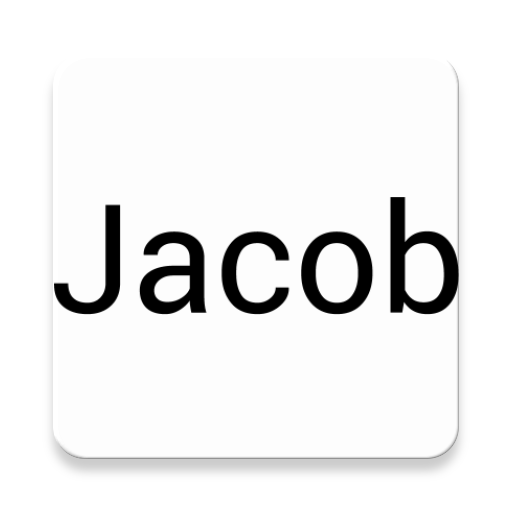
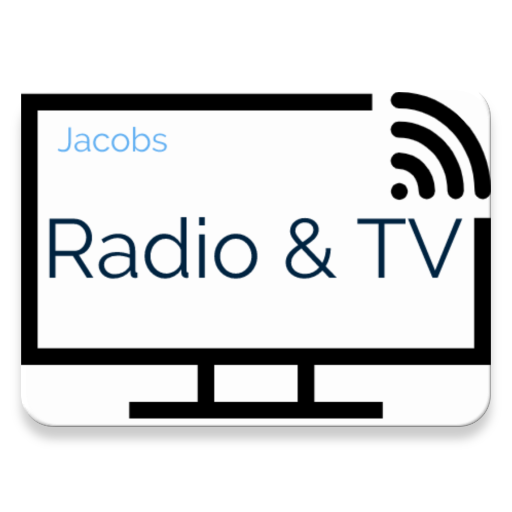
version '0.1.8 Marktest' Nyt app-ikon for variant 'Jacob' targetSdkVersion 21 -> 23 (bed om tilladelser - ikke reversibelt) hentAlleProgramserierAtilÅ virker for TV

Changed region(s): [[0.0312, 0.1562, 0.9688, 0.9375], [0.125, 0.25, 0.3438, 0.3125]]

diff --git a/app/src/main/java/dk/radiotv/backend/MuOnlineTVBackend.java b/app/src/main/java/dk/radiotv/backend/MuOnlineTVBackend.java
@@ -252,40 +252,52 @@ public class MuOnlineTVBackend extends MuOnlineBackend {
     return programserie;
   }
 
-/** Alle programserier - kun TV
- */
-@Override
-public void hentAlleProgramserierAtilÅ(final NetsvarBehander netsvarBehander) {
-  String url = "https://www.dr.dk/mu-online/api/1.4/search/tv/programcards-latest-episode-with-asset/series-title-starts-with/?offset=0&limit=75";
-  App.netkald.kald(null, url, new NetsvarBehander() {
-    @Override
-    public void fikSvar(Netsvar s) throws Exception {
-      Log.d(this + " hentAlleProgramserierAtilÅ "+s.url+ "  fikSvar " + s.toString());
-      if (!s.uændret && s.json != null) {
-        JSONObject jsonObject = new JSONObject(s.json);
-        JSONArray arr = jsonObject.getJSONArray("Items");
+  /** Alle programserier - kun TV
+   */
+  @Override
+  public void hentAlleProgramserierAtilÅ(final NetsvarBehander netsvarBehander) {
+    String url = "https://www.dr.dk/mu-online/api/1.4/search/tv/programcards-latest-episode-with-asset/series-title-starts-with/?offset=0&limit=75";
+    hentAlleProgramserierAtilÅRekursion(url, netsvarBehander);
+  }
 
-        JSONObject problemObj = null;
-        for (JSONObject o : new JSONArrayIterator(arr)) try {
-          problemObj = o;
-          String programserieUrn = o.getString("SeriesUrn");
-          String programserieSlug = o.getString("SeriesSlug");
-          Programserie ps = App.data.programserieFraSlug.get(programserieSlug);
-          if (ps == null) ps = App.data.programserieFraSlug.get(programserieUrn);
-          if (ps == null) {
-            ps = new Programserie(MuOnlineTVBackend.this);
-            ps.urn = programserieUrn;
-            ps.slug = programserieSlug;
-            App.data.programserieFraSlug.put(programserieUrn, ps);
-            App.data.programserieFraSlug.put(programserieSlug, ps);
-            ps.titel = o.getString("SeriesTitle");
+  private void hentAlleProgramserierAtilÅRekursion(String url, final NetsvarBehander netsvarBehander) {
+    final NetsvarBehander netsvarBehanderRekursiv = new NetsvarBehander() {
+      @Override
+      public void fikSvar(Netsvar s) throws Exception {
+        Log.d(this + " hentAlleProgramserierAtilÅ " + s.url + "  fikSvar " + s.toString());
+        if (!s.uændret && s.json != null) {
+          JSONObject jsonObject = new JSONObject(s.json);
+          JSONArray arr = jsonObject.getJSONArray("Items");
+
+          for (JSONObject o : new JSONArrayIterator(arr)) {
+            try {
+              String programserieUrn = o.getString("SeriesUrn");
+              String programserieSlug = o.getString("SeriesSlug");
+              Programserie ps = App.data.programserieFraSlug.get(programserieSlug);
+              //if (ps == null) ps = App.data.programserieFraSlug.get(programserieUrn);
+              if (ps == null) {
+                ps = new Programserie(MuOnlineTVBackend.this);
+                ps.urn = programserieUrn;
+                ps.slug = programserieSlug;
+                //App.data.programserieFraSlug.put(programserieUrn, ps);
+                App.data.programserieFraSlug.put(programserieSlug, ps);
+                ps.titel = o.getString("SeriesTitle");
+//                Log.d(this + " tilføjer serie " + ps.slug + " " + ps.titel);
+              }
+              ps.billedeUrl = o.getString("PrimaryImageUri");
+            } catch (Exception e) {
+              Log.e(o.toString(), e);
+            }
           }
-          ps.billedeUrl = o.getString("PrimaryImageUri");
-        } catch (Exception e) { Log.e(o.toString(), e); }
+          String næsteUrl = jsonObject.getJSONObject("Paging").optString("Next", null);
+          if (næsteUrl!=null) {
+            hentAlleProgramserierAtilÅRekursion(næsteUrl, netsvarBehander);
+          }
+        }
+        netsvarBehander.fikSvar(s);
       }
-      netsvarBehander.fikSvar(s);
-    }
-  });
-}
+    };
+    App.netkald.kald(null, url, netsvarBehanderRekursiv);
 
+  }
 }

diff --git a/app/src/main/java/dk/dr/radio/akt/Soeg_efter_program_frag.java b/app/src/main/java/dk/dr/radio/akt/Soeg_efter_program_frag.java
@@ -41,7 +41,7 @@ import dk.dr.radio.v3.R;
 
 
 public class Soeg_efter_program_frag extends Basisfragment implements
-    OnClickListener, AdapterView.OnItemClickListener {
+    OnClickListener, AdapterView.OnItemClickListener, Runnable {
 
   private static final boolean SØG_OGSÅ_EFTER_UDSENDELSER = false;
   private ListView listView;
@@ -86,13 +86,6 @@ public class Soeg_efter_program_frag extends Basisfragment implements
     søgFelt.addTextChangedListener(new TextWatcher() {
       @Override
       public void onTextChanged(CharSequence s, int start, int before, int count) {
-        if (søgFelt.getText().toString().length() > 0) {
-          søgKnap.setImageResource(android.R.drawable.ic_menu_close_clear_cancel);
-        } else {
-          liste.clear();
-          adapter.notifyDataSetChanged();
-          søgKnap.setImageResource(R.drawable.dri_soeg_blaa);
-        }
       }
 
       @Override
@@ -101,23 +94,10 @@ public class Soeg_efter_program_frag extends Basisfragment implements
 
       @Override
       public void afterTextChanged(Editable s) {
-        if (søgFelt.getText().length() > 0) {
-          søg();
-        } else {
-          tomStr.setText("");
-        }
+        run();
       }
     });
 
-    /*Lytter efter enter key */
-    søgFelt.setOnEditorActionListener(new OnEditorActionListener() {
-      @Override
-      public boolean onEditorAction(TextView v, int actionId,
-                                    KeyEvent event) {
-        søg();
-        return true;
-      }
-    });
     // Skjul softkeyboard når man hopper ud af indtastningsfeltet
     // se http://stackoverflow.com/questions/1109022/close-hide-the-android-soft-keyboard
     final InputMethodManager imm = (InputMethodManager) (getActivity().getSystemService(Context.INPUT_METHOD_SERVICE));
@@ -133,14 +113,30 @@ public class Soeg_efter_program_frag extends Basisfragment implements
 
     // Indlæs A-Å-liste hvis den ikke allerede er det, så vi har en komplet programliste
     if (!App.data.programserierAtilÅ.indlæst) {
+      App.data.programserierAtilÅ.observatører.add(this);
       App.data.programserierAtilÅ.startHentData();
     }
     return rod;
   }
 
   @Override
+  public void run() {
+    if (søgFelt.getText().length() > 0) {
+      søgKnap.setImageResource(android.R.drawable.ic_menu_close_clear_cancel);
+      søg();
+    } else {
+      tomStr.setText("");
+      liste.clear();
+      liste.addAll(App.data.programserierAtilÅ.getListe());
+      adapter.notifyDataSetChanged();
+      søgKnap.setImageResource(R.drawable.dri_soeg_blaa);
+    }
+  }
+
+  @Override
   public void onDestroyView() {
     super.onDestroyView();
+    App.data.programserierAtilÅ.observatører.remove(this);
     // Anullér en eventuel søgning
     App.netkald.annullerKald(this);
     søgelistecache = null;

diff --git a/app/src/main/java/dk/dr/radio/akt/Venstremenu_frag.java b/app/src/main/java/dk/dr/radio/akt/Venstremenu_frag.java
@@ -416,14 +416,13 @@ public class Venstremenu_frag extends Fragment implements Runnable {
       }
 
 
-      if (!Udseende.ESPERANTO) {
+      if (!Udseende.ESPERANTO && !App.PRODUKTION) {
         tilføj(R.layout.venstremenu_elem_overskrift, DramaOgBog_frag.class);
         aq.id(R.id.tekst).text("DR Podcast").typeface(App.skrift_gibson_fed);
-
-        tilføj(R.layout.venstremenu_elem_overskrift, AlleUdsendelserAtilAA_frag.class);
-        aq.id(R.id.tekst).text("Alle udsendelser A-Å").typeface(App.skrift_gibson_fed);
       }
 
+      tilføj(R.layout.venstremenu_elem_overskrift, AlleUdsendelserAtilAA_frag.class);
+      aq.id(R.id.tekst).text("Alle udsendelser A-Å").typeface(App.skrift_gibson_fed);
 
       tilføj(new MenuElement(layoutInflater.inflate(R.layout.venstremenu_elem_favoritprogrammer, null),
           new Runnable() {
@@ -504,7 +503,7 @@ public class Venstremenu_frag extends Fragment implements Runnable {
         tilføj(R.layout.venstremenu_elem_overskrift, new Runnable() {
           @Override
           public void run() {
-            startActivity(new Intent(Intent.ACTION_VIEW, Uri.parse(getString(R.string.URL_TIL_DR_RADIO_BETAVERSION))));
+            startActivity(new Intent(Intent.ACTION_VIEW, Uri.parse(getString(R.string.AppOpdatering_APK_URL))));
           }
         });
         if (!Udseende.ESPERANTO) aq.id(R.id.tekst).text("Hent nyeste udvikler-version.\nNuværende version:\n" + App.versionsnavn);

diff --git a/app/src/main/java/dk/radiotv/backend/MuOnlineRadioBackend.java b/app/src/main/java/dk/radiotv/backend/MuOnlineRadioBackend.java
@@ -125,8 +125,9 @@ https://en.wikipedia.org/wiki/ISO_8601#Durations
               ps.urn = programserieUrn;
               App.data.programserieFraSlug.put(programserieUrn, ps);
               ps.slug = programserieUrn; // ØV! Den kommer ikke med :-| TODO!!!
+              ps.titel = o.getString("title");
+//              Log.d(this+" tilføjer serie "+ps.slug+" "+ps.titel);
             }
-            ps.titel = o.getString("title");
             ps.beskrivelse = o.optString("description"); // opt - f.eks. "id":"urn:dr:mu:bundle:5a0a3b456187a4148c986b54","title":"P4 Valgekstra","sortLetter":"P","hasOndemandRights":true,"sourceMedium":2,"image":{"webImages":[{"imageUrl":"https:\/\/www.dr.dk\/mu-online\/api\/1.3\/bar\/helper\/get-image-for-bundle\/urn:dr:mu:bundle:5a0a3b456187a4148c986b54","pixelWidth":960}]},"type":"series","isGeoBlocked":false}
             ps.billedeUrl = o.getJSONObject("image").getJSONArray("webImages").getJSONObject(0).getString("imageUrl");
           } catch (Exception e) { Log.e(o.toString(), e); }

diff --git a/app/src/main/java/dk/dr/radio/data/Favoritter.java b/app/src/main/java/dk/dr/radio/data/Favoritter.java
@@ -96,7 +96,7 @@ public class Favoritter {
 
   protected void startOpdaterAntalNyeUdsendelserForProgramserie(final String programserieSlug, String dato) {
     Programserie ps = App.data.programserieFraSlug.get(programserieSlug);
-    if (ps==null) return; // Kial / kiel okazas?
+    if (ps==null || ps.getUdsendelser()==null) return; // Kial / kiel okazas?
     int antal = 0;
     try {
       Date ekde = Datoformater.apiDatoFormat.parse(dato);

diff --git a/app/src/main/java/dk/dr/radio/akt/Hovedaktivitet.java b/app/src/main/java/dk/dr/radio/akt/Hovedaktivitet.java
@@ -59,7 +59,7 @@ public class Hovedaktivitet extends Basisaktivitet implements Runnable {
         return;
       } else {
         // Jacob
-        App.langToast("BuildConfig.FLAVOR=" + BuildConfig.FLAVOR);
+        if (!App.PRODUKTION) App.langToast("BuildConfig.FLAVOR=" + BuildConfig.FLAVOR);
       }
 
 
